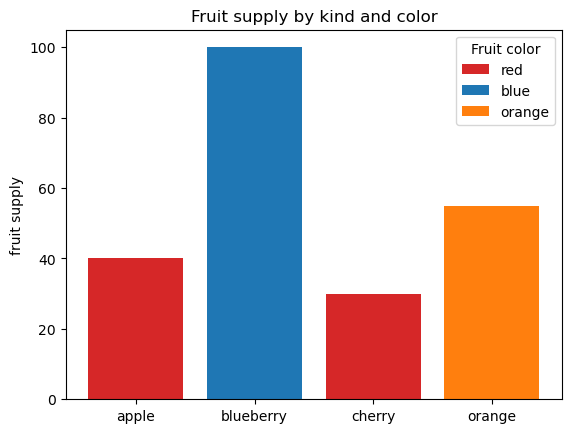
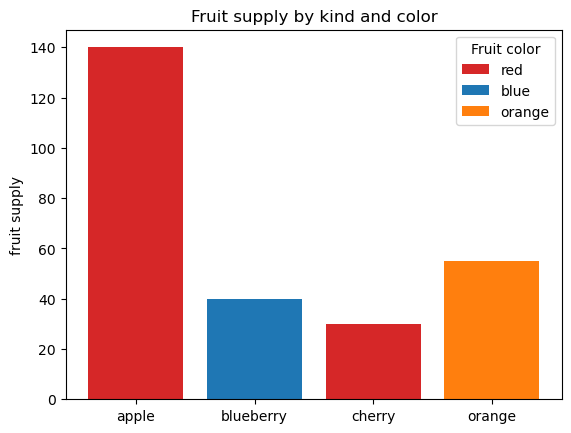
This is the second version chnage in the python file

diff --git a/main.py b/main.py
@@ -3,7 +3,7 @@ import matplotlib.pyplot as plt
 fig, ax = plt.subplots()
 
 fruits = ['apple', 'blueberry', 'cherry', 'orange']
-counts = [40, 100, 30, 55]
+counts = [140, 40, 30, 55]
 bar_labels = ['red', 'blue', '_red', 'orange']
 bar_colors = ['tab:red', 'tab:blue', 'tab:red', 'tab:orange']
 
@@ -15,8 +15,8 @@ ax.legend(title='Fruit color')
 
 plt.savefig('bars.png', bbox_inches='tight')
 
-cat = ["bored", "happy", "happy", "happy", "bored","happy"]
-dog = ["happy", "happy", "happy", "bored", "bored", "happy"]
+cat = ["bored", "happy", "happy", "bored", "bored","happy"]
+dog = ["happy", "happy", "happy", "happy", "bored", "happy"]
 activity = ["combing", "drinking", "feeding", "napping", "playing", "washing"]
 
 fig, ax = plt.subplots()
